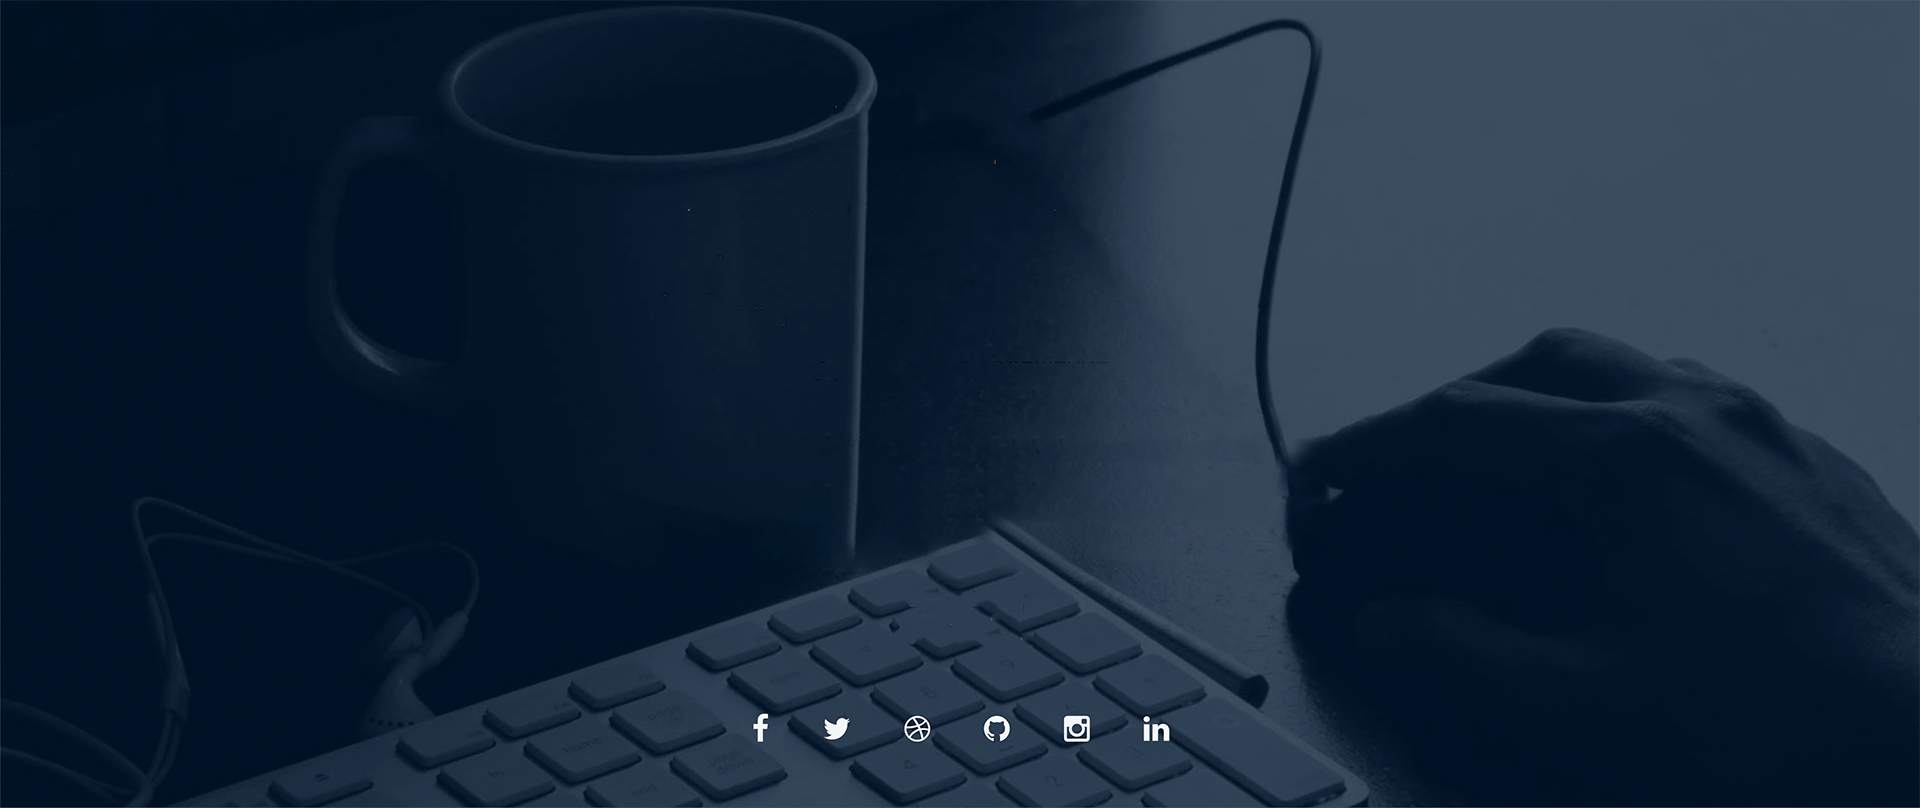
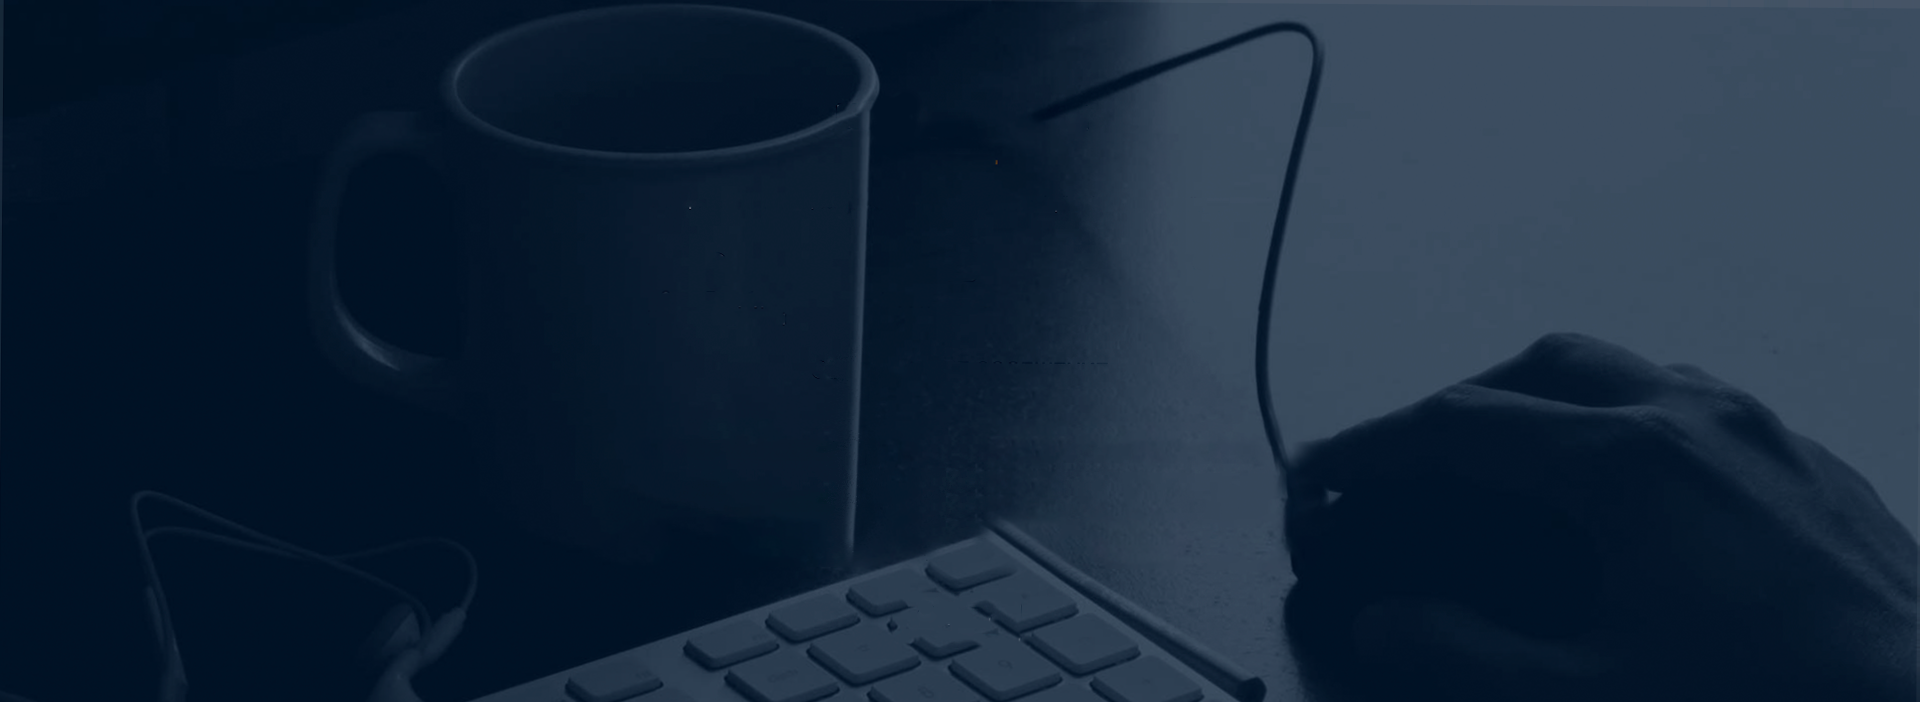
PC адаптив готов

diff --git a/css/style.css b/css/style.css
@@ -260,7 +260,29 @@ ul{
         width: 435px;
     }
 }
-
+@media (max-width:992px){
+    .main{
+        padding-top: 90px;
+        width: 992px;
+        
+    }
+    .title_container_text{
+        font-size: 30px;
+    }
+    .title_container_text2{
+        font-size: 14px;
+        padding-top: 12px;
+    }
+    .title_container_btns{
+        padding-top: 25px;
+    }
+    .title_container_btn{
+        font-size: 12px;
+    }
+    .gay_main{
+        width: 335px;
+    }
+}
 
 
 
@@ -365,6 +387,27 @@ font-size: 33px;
         font-size: 24px;
     }
 }
+@media (max-width:992px){
+    .wrapper_am{
+        transform: translate(0,-50px);
+        width: 992px;
+    }
+    .title_container_text3{
+        font-size: 24px;
+    }
+    .wrapper_title_container{
+        padding-top: 250px;
+        text-align: center;
+        width: 810px;
+        margin: 0 auto;
+    }
+    .line{
+        margin-top: 13px;
+    }
+    .circle_photo{
+        padding: 20px 0px 12px 0px;
+    }
+}
 
 
 
@@ -448,7 +491,22 @@ font-size: 33px;
         width: 200px;
     }
 }
-
+@media (max-width:992px){
+    .wrapper_wic{
+        margin: 0 auto;
+        width: 992px;
+    }
+    .wrapper_title_container{
+        padding-top: 34px;
+    }
+    .type_works{
+        padding-top: 68px;
+        justify-content: space-around;
+    }
+    .type_works_card{
+        width: 150px;
+    }
+}
 
 
 
@@ -555,6 +613,31 @@ font-size: 33px;
     }
     .client{
         font-size: 28px;
+    }
+  }
+  @media (max-width:992px) {
+    .wrapper_cases{
+        width: 992px;
+        margin: 0 auto;
+    }
+    .cases_text{
+        font-size: 23px;
+    }
+    .title_container_text7{
+        font-size: 23px;
+    }
+    .title_container_text4{
+        font-size: 24px;
+    }
+    .visit_btn{
+        font-size: 23px;
+    }
+    .client{
+        font-size: 28px;
+    }
+    .name_project {
+        padding-left: 22px;
+        text-align: center;
     }
   }
 
@@ -685,6 +768,20 @@ font-size: 33px;
 
 
 }
+@media (max-width: 992px){
+    .wrapper_calc{
+        width: 992px;
+        margin: 0 auto;
+    }
+    .input_calc{
+        margin-top: 7px;
+        width: 885px;
+        height: 40px;
+    }
+    .title_container_text3{
+        padding-top: 66px;
+    }
+}
 
 
 
@@ -755,6 +852,14 @@ font-size: 33px;
 @media (max-width: 1200px){
     .some_stsatistic{
         width: 1200px;
+        margin: 0 auto;
+    }
+
+
+}
+@media (max-width: 992px){
+    .some_stsatistic{
+        width: 992px;
         margin: 0 auto;
     }
 
@@ -851,6 +956,24 @@ b{
 
 }
 
+@media (max-width: 1200px){
+    .rewiews{
+        width: 1200px;
+        margin: 0 auto;
+    }
+
+
+}
+@media (max-width: 992px){
+    .rewiews{
+        width: 992px;
+        margin: 0 auto;
+    }
+    .client{
+        font-size: 16px;
+    }
+}
+
 
 
 
@@ -877,7 +1000,7 @@ b{
     width: 100%;
     height: 810px;
     transform: translate(0,160px);
-    background-image: url(../img/bg_contacts.png);
+    background-image: url(../img/bg_contacts.png) ;
     background-size: cover;
     text-align: center;
     justify-content: center;
@@ -946,6 +1069,9 @@ b{
     background-color: #d3d6dc;
     margin-bottom: 35px;
 }
+.wrap_btn_cocnact{
+    text-decoration: none;
+}
 ::placeholder{
     text-align: start;
     padding-left: 10px;
@@ -975,8 +1101,6 @@ b{
         width: 1400px;
         margin: 0 auto;
     }
-
-
 }
 
 @media (max-width: 1200px){
@@ -984,10 +1108,42 @@ b{
         width: 1200px;
         margin: 0 auto;
     }
-
-
 }
-
+@media (max-width: 992px){
+    .contacts{
+        width: 992px;
+        margin: 0 auto;
+        height: 584px;
+    }
+    .title_container_text11{
+    font-size: 20px;
+    padding-top: 50px;
+    }
+    .contact_text{
+        padding: 16px 0px 6px 0px;
+    }
+    .input_cocntainer_1{
+        width: 50%;
+    }
+    .contact_input_Email{
+        margin: 10px 0px;
+        height: 27px;
+    }
+    .contact_input_name{
+        margin: 0px;
+        height: 27px;
+    }
+    .input_cocntainer_2{
+        transform: translate(202px,-102px);
+        width: 457px;
+        height: 72px;
+    }
+    .btn_cocnact{
+        transform: translate(0px,-103px);
+        height: 32px;
+        width: 182px;
+    }
+}
 
 
 
@@ -1006,13 +1162,19 @@ b{
         width: 1400px;
         margin: 0 auto;
     }
-
-
 }
 
 @media (max-width: 1200px){
     .map{
         width: 1200px;
+        margin: 0 auto;
+    }
+
+
+}
+@media (max-width: 992px){
+    .map{
+        width: 992px;
         margin: 0 auto;
     }
 
@@ -1056,4 +1218,11 @@ b{
     }
 
 
+}
+
+@media (max-width: 992px){
+    .footer{
+        width: 992px;
+        margin: 0 auto;
+    }
 }
